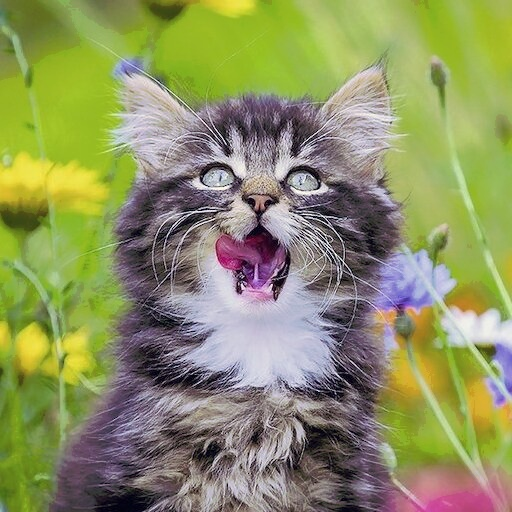
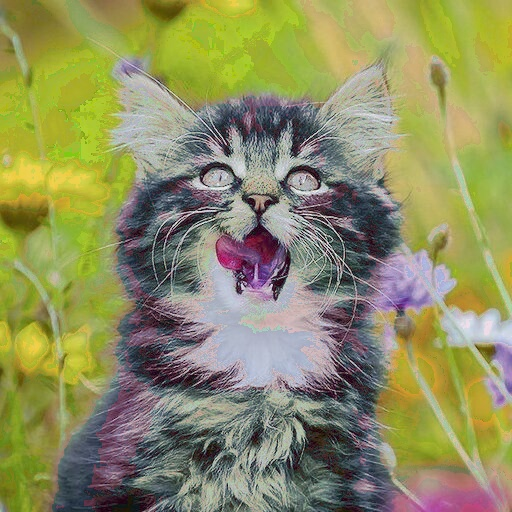
ajout fonction triadique harmonique

diff --git a/Sources/test2.py b/Sources/test2.py
@@ -1,51 +1,8 @@
 import cv2
 import random
 import math
+from imgTools import *
 
-
-#permet d'afficher les pourcentage de progression
-def verbosePourcent(current, valMax):
-    if verbosePourcent.pourcent < int(current*100/valMax):
-        print("\033[A                             \033[A")
-        print( int(current*100/valMax) , "%" )
-        verbosePourcent.pourcent = int(current*100/valMax)
-    if verbosePourcent.pourcent ==100:
-        verbosePourcent.pourcent = 0 # reset le compteur une fois 100% atteint
-verbosePourcent.pourcent=0
-
-
-##
-
-
-#somme l'occurance des pixel voisin de la couleur courante
-def sommeVoisine(histo,color):
-    distanceVoisin = 3
-    voisins = range(-distanceVoisin, distanceVoisin)
-    
-    somme = 0
-    #Parourt les 8 voisins de color
-    for b, g, r in zip(voisins,voisins, voisins):
-        colorV = (color[0] + b, color[1] + g, color[2] + r)
-        if colorV in histo.keys():
-           somme += histo[colorV]
-    return somme
-
-        
-#retourne la distance entre deux couleurs
-def distance(color, couleur):
-    dist = math.sqrt(pow(color[0] - couleur[0], 2) +
-                    pow(color[1] - couleur[1], 2) +
-                    pow(color[2] - couleur[2], 2));
-    return dist
-def distanceComp(color, couleur, comp):
-    dist = abs(color[comp] - couleur[comp]);
-    return dist
-
-def ifMilieux(isMid, color2, color3, k):
-    if (color2[k] > isMid[k] and isMid[k] > color3[k]) or (color2[k] < isMid[k] and isMid[k] < color3[k]):
-        return True
-    else: return False
-    
 
 #trouve la meilleurs harmonisation et effectue la modification de l'image
 def findBestHarmonieCompl(histo, img, verbose = True):
@@ -78,7 +35,9 @@ def findBestHarmonieCompl(histo, img, verbose = True):
     for i in range(0,img.shape[0]):
         for j in range(0,img.shape[1]):
             #calcul de la distance entre le mode et le complémentaire
-            """
+            #on modifie les pixel courant
+
+        
             distColor = distance(mode[0], img[i,j])
             distCompl = distance(modeCompl, img[i,j])
             if distColor < distCompl:
@@ -87,12 +46,10 @@ def findBestHarmonieCompl(histo, img, verbose = True):
             else:
                 color = modeCompl
                 dist = distCompl
-            """
-           
-
-            #on modifie les pixel courant 
+            
+            
             for k in range(3):
-
+                """
                 distColor = distanceComp(mode[0], img[i,j],k)
                 distCompl = distanceComp(modeCompl, img[i,j],k)
                 if distColor < distCompl:
@@ -100,9 +57,8 @@ def findBestHarmonieCompl(histo, img, verbose = True):
                     #dist = distColor
                 else:
                     color = modeCompl
-                    #dist = distCompl
-
-                
+                    #dist = distCompl 
+                """
                 dist = distanceComp(color, img[i,j], k)
                 
                     #plusieur choix de fonction possible ? sqrt ?
@@ -124,14 +80,96 @@ def findBestHarmonieCompl(histo, img, verbose = True):
                 else:
                     img.itemset((i,j,k), img.item(i,j,k)-formule)
             
-#read picture
+
+
+#trouve la meilleurs harmonisation et effectue la modification de l'image
+def findBestHarmonieTriad(histo, img, verbose = True):
+    #le mode correspond a un p
+    #mode = couleur, occurance 
+    mode = (0,0)
+
+    ite = 0
+    for key, value in histo.items():
+        ite+=1
+        color = list(key)
+      #  print(color)
+        #calcul de la couleur complémentaire
+        colorTriad1 = [color[2],color[0],color[1]]
+        colorTriad2 = [color[1],color[2],color[0]]
+        #on prend en compte aussi les voisines
+        somme =sommeVoisine(histo,color) + sommeVoisine(histo, colorTriad1) + sommeVoisine(histo, colorTriad2)
+
+        if somme > mode[1]:
+            mode = (color, somme)
+        if verbose:
+            verbosePourcent(ite, len(histo))
+       # print("de la recherche de la meilleurs harmonie")
+    modeTriad1 = [mode[0][2],mode[0][0],mode[0][1]]
+    modeTriad2 = [mode[0][1],mode[0][2],mode[0][0]]
+    print("couleur :        ", mode[0])
+    print("triadique 1 : ", modeTriad1)
+    print("triadique 1 : ", modeTriad2)
+    print("nbOcc : ", mode[1])    
+    #on harmonise les couleur de l'image
+    for i in range(0,img.shape[0]):
+        for j in range(0,img.shape[1]):
+            #calcul de la distance entre le mode et le complémentaire
+            #on modifie les pixel courant 
+            distColor = distance(mode[0], img[i,j])
+            distTriad1 = distance(modeTriad1, img[i,j])
+            distTriad2 = distance(modeTriad2, img[i,j])
+            
+            if distColor < distTriad2 and distColor < distTriad1:
+                color = mode[0]
+                dist = distColor
+            elif distTriad1 <distTriad2:
+                color = modeTriad1
+                dist = distTriad1
+            else:
+                color = modeTriad2
+                dist = distTriad2                
+            
+            
+            for k in range(3):
+                """
+                distColor = distanceComp(mode[0], img[i,j],k)
+                distCompl = distanceComp(modeCompl, img[i,j],k)
+                if distColor < distCompl:
+                    color = mode[0]
+                    #dist = distColor
+                else:
+                    color = modeCompl
+                    #dist = distCompl 
+                """
+                dist = distanceComp(color, img[i,j], k)
+                
+                    #plusieur choix de fonction possible ? sqrt ?
+                #formule =  min(math.exp(dist/15)-1,20)
+                #formule = math.sqrt(dist)
+                #formule = max(0,math.floor(25/(1+math.exp(-(dist-70)/8))-1 ))   #sigmoïde
+                #formule =  min(math.exp(dist/15)-1,2)
+                pivot =distanceComp(mode[0], modeTriad1,k)/4
+                if dist<pivot:
+                    formule = dist/2
+                if(dist>pivot and not ifMilieux(img[i,j],mode[0],modeTriad1,k)):
+                    formule = pivot/2
+                else:
+                    formule = (pivot/2)-dist/2
+                formule = min(60,max(0,math.floor(formule)))                
+                if color[k] > img[i,j][k]:
+          
+                    img.itemset((i,j,k), img.item(i,j,k)+formule)
+                else:
+                    img.itemset((i,j,k), img.item(i,j,k)-formule)
+
+
 
 #### ATTENTION: ####
 # OPENCV utilise le format BGR (bleu, vert, rouge)
 # pensez a rectifier si nécessaire pour les calculs
 ####
 
-filename = "chat3"
+filename = "cat3"
 img = cv2.imread ("../Images/Inputs/"+filename+".jpg")
 ImgIndex = cv2.cvtColor(img, cv2.COLOR_BGR2GRAY)
 
@@ -149,7 +187,9 @@ for i in range(0,img.shape[0]):
             histo[tuple(pixel)] = 1
             
 
-findBestHarmonieCompl(histo, img)
+#findBestHarmonieCompl(histo, img)
+findBestHarmonieTriad(histo, img)
+
 cv2.imwrite("../Images/Outputs/"+filename+"_palette.jpg", img)
 
 

diff --git a/Sources/imgTools.py b/Sources/imgTools.py
@@ -1,0 +1,53 @@
+import cv2
+import random
+import math
+
+
+#permet d'afficher les pourcentage de progression
+def verbosePourcent(current, valMax):
+    if verbosePourcent.pourcent < int(current*100/valMax):
+        print("\033[A                             \033[A")
+        print( int(current*100/valMax) , "%" )
+        verbosePourcent.pourcent = int(current*100/valMax)
+    if verbosePourcent.pourcent ==100:
+        verbosePourcent.pourcent = 0 # reset le compteur une fois 100% atteint
+verbosePourcent.pourcent=0
+
+
+##
+
+
+#somme l'occurance des pixel voisin de la couleur courante
+def sommeVoisine(histo,color):
+    distanceVoisin = 3
+    voisins = range(-distanceVoisin, distanceVoisin)
+    
+    somme = 0
+    #Parourt les 8 voisins de color
+    for b, g, r in zip(voisins,voisins, voisins):
+        colorV = (color[0] + b, color[1] + g, color[2] + r)
+        if colorV in histo.keys():
+           somme += histo[colorV]
+    return somme
+
+        
+#retourne la distance entre deux couleurs
+def distance(color, couleur):
+    dist = math.sqrt(pow(color[0] - couleur[0], 2) +
+                    pow(color[1] - couleur[1], 2) +
+                    pow(color[2] - couleur[2], 2));
+    return dist
+def distanceComp(color, couleur, comp):
+    dist = abs(color[comp] - couleur[comp]);
+    return dist
+
+def ifMilieux(isMid, color2, color3, k):
+    if (color2[k] > isMid[k] and isMid[k] > color3[k]) or (color2[k] < isMid[k] and isMid[k] < color3[k]):
+        return True
+    else: return False
+
+
+
+
+
+
